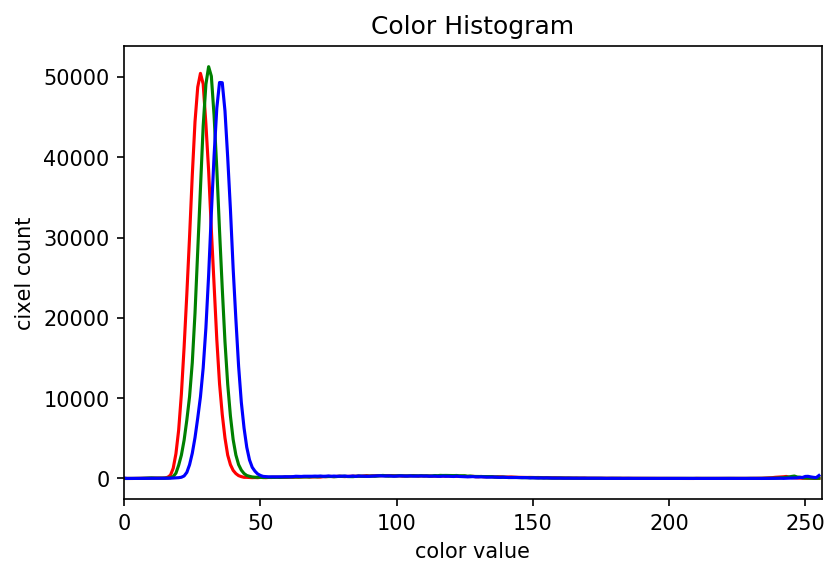
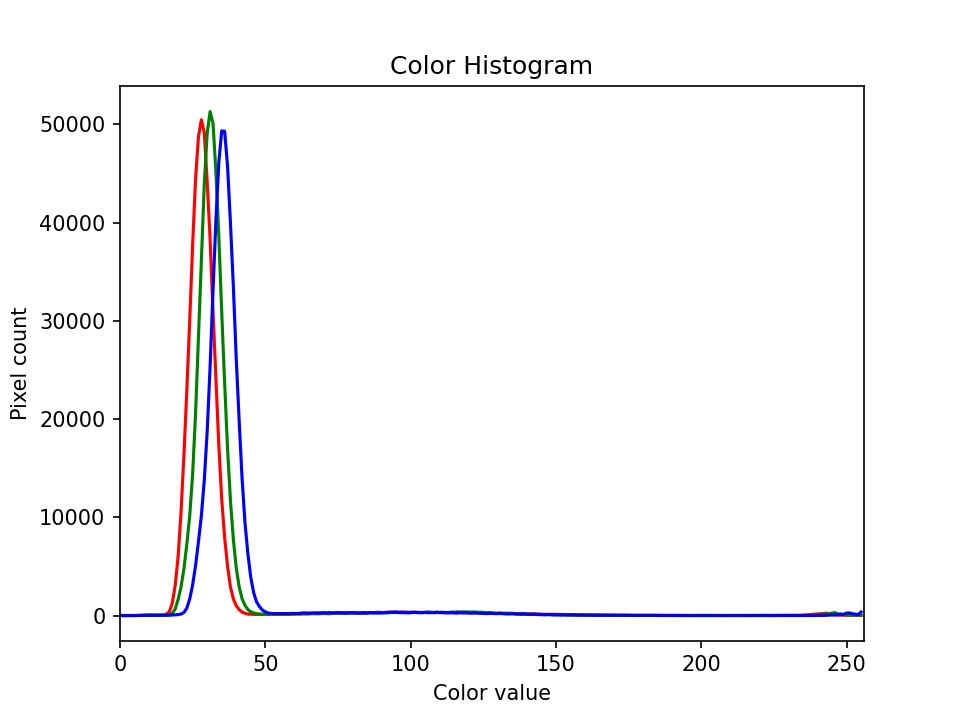
move scripts into chunks inside episode

Changed region(s): [[0.0, 0.0312, 0.9905, 0.9983]]

diff --git a/episodes/05-creating-histograms.md b/episodes/05-creating-histograms.md
@@ -37,30 +37,30 @@ as a preparatory step before performing
 ## Grayscale Histograms
 
 We will start with grayscale images and histograms first, and then move on to
-color images. Here is a Python script to load an image in grayscale instead
-of full color, and then create and display the corresponding histogram. The first
-few lines are:
+color images. We will use this image of a plant seedling as an example:
+![Plant seedling](../fig/04-plant-seedling.jpg)
+
+Here we load the image in grayscale instead
+of full color, and then create and display the corresponding histogram:
 
 ~~~
-"""
- * Generate a grayscale histogram for an image.
- *
- * Usage: python GrayscaleHistogram.py <fiilename>
-"""
-import sys
 import numpy as np
 import skimage.color
 import skimage.io
-from matplotlib import pyplot as plt
+import matplotlib.pyplot as plt
+%matplotlib widget
 
-# read image, based on command line filename argument;
-# read the image as grayscale from the outset
-image = skimage.io.imread(fname=sys.argv[1], as_gray=True)
+# read the image of a plant seedling as grayscale from the outset
+image = skimage.io.imread(fname='04-plant-seedling.jpg', as_gray=True)
 
 # display the image
-skimage.io.imshow(image)
+fig, ax = plt.subplots()
+plt.imshow(image, cmap='gray')
+plt.show()
 ~~~
 {: .language-python}
+
+![Plant seedling](../fig/04-plant-seedling-grayscale.png)
 
 In the program, we have a new import from `matplotlib`, to gain access to the
 tools we will use to draw the histogram. The statement
@@ -69,10 +69,9 @@ tools we will use to draw the histogram. The statement
 
 loads up the `pyplot` library, and gives it a shorter name, `plt`.
 
-Next, we use the `skimage.io.imread()` function to load our image. We use the first
-command line parameter as the filename of the image, as we did in the
-[Skimage Images]({{ page.root }}/03-skimage-images) lesson. The second parameter
-to `skimage.io.imread()` instructs the function to transform the image into
+Next, we use the `skimage.io.imread()` function to load our image. The first parameter 
+to `skimage.io.imread()` is the filename of the image. The second parameter 
+`as_gray` instructs the function to transform the image into
 grayscale with a value range from 0 to 1 while loading the image.
 We will keep working with images in the value range 0 to 1 in this lesson.
 Remember that we can transform an image back to the range 0 to 255 with
@@ -87,7 +86,7 @@ histogram, bin_edges = np.histogram(image, bins=256, range=(0, 1))
 ~~~
 {: .language-python}
 
-The parameter `bins` determines the histogram size, or the number of "bins" to use for
+The parameter `bins` determines the number of "bins" to use for
 the histogram. We pass in `256` because we want to see the pixel count for
 each of the 256 possible values in the grayscale image.
 
@@ -96,10 +95,10 @@ have. Here, we pass 0 and 1, which is the value range of our input image after t
 to grayscale.
 
 The first output of the `np.histogram` function is a one-dimensional NumPy array,
-with 256 rows and one column, representing the number of pixels with the color
+with 256 rows and one column, representing the number of pixels with the intensity
 value corresponding to the index. I.e., the first number in the array is the
-number of pixels found with color value 0, and the final
-number in the array is the number of pixels found with color value 255.
+number of pixels found with intensity value 0, and the final
+number in the array is the number of pixels found with intensity value 255.
 The second output of `np.histogram` is an array with the bin edges and one column and 257 rows (one more than the histogram itself).
 There are no gaps between the bins, which means that the end of the first bin, is the start of the second and so on.
 For the last bin, the array also has to contain the stop, so it has one more element, than the histogram.
@@ -112,7 +111,7 @@ of the plotting facilities of the `matplotlib` library.
 plt.figure()
 plt.title("Grayscale Histogram")
 plt.xlabel("grayscale value")
-plt.ylabel("pixels")
+plt.ylabel("pixel count")
 plt.xlim([0.0, 1.0])  # <- named arguments do not work here
 
 plt.plot(bin_edges[0:-1], histogram)  # <- or here
@@ -139,6 +138,9 @@ x-axis with the `plt.xlim([0.0, 1.0])` function call.
 Finally, we create the histogram plot itself with `plt.plot(bin_edges[0:-1], histogram)`.
 We use the **left** bin edges as x-positions for the histogram values by indexing the `bin_edges` array to ignore the last value (the **right** edge of the last bin).
 Then we make it appear with `plt.show()`. When we run the program on this image of a plant seedling,
+it produces this histogram:
+
+![Plant seedling histogram](../fig/04-plant-seedling-gs-histogram.png)
 
 > ## Histograms in matplotlib
 >
@@ -153,12 +155,6 @@ Then we make it appear with `plt.show()`. When we run the program on this image 
 >
 {: .callout}
 
-![Plant seedling](../fig/04-plant-seedling.jpg)
-
-the program produces this histogram:
-
-![Plant seedling histogram](../fig/04-plant-seedling-gs-histogram.png)
-
 > ## Using a mask for a histogram (15 min)
 >
 > Looking at the histogram above, you will notice that there is a large number
@@ -167,48 +163,39 @@ the program produces this histogram:
 > mostly black background. What if we want to focus more closely on the leaf of
 > the seedling? That is where a mask enters the picture!
 >
-> Navigate to the **Desktop/workshops/image-processing/05-creating-histograms**
-> directory, and edit the **GrayscaleMaskHistogram.py** program. The skeleton
-> program is a copy of the mask program above, with comments showing where to
-> make changes.
->
-> First, use a tool like ImageJ to determine the *(x, y)* coordinates of a
-> bounding box around the leaf of the seedling. Then, using techniques from the
+> First, hover over the plant seedling image with your mouse to determine the 
+> *(x, y)* coordinates of a bounding box around the leaf of the seedling. 
+> Then, using techniques from the
 > [Drawing and Bitwise Operations]({{ page.root }}/04-drawing/)
 > episode, create a mask with a white rectangle covering that bounding box.
 >
 > After you have created the mask, apply it to the input image before passing
 > it to the `np.histogram` function.
-> Then, run the **GrayscaleMaskHistogram.py** program and observe the resulting
-> histogram.
 >
 > > ## Solution
 > > ~~~
-> > """
-> >  * Generate a grayscale histogram for an image.
-> >  *
-> >  * Usage: python GrayscaleMaskHistogram.py <filename>
-> > """
-> > import sys
-> > import numpy as np
 > > import skimage.draw
-> > import skimage.io
-> > from matplotlib import pyplot as plt
-> >
-> > # read image, based on command line filename argument;
+> > 
 > > # read the image as grayscale from the outset
-> > img = skimage.io.imread(fname=sys.argv[1], as_gray=True)
+> > image = skimage.io.imread('04-plant-seedling.jpg', as_gray=True)
 > >
 > > # display the image
-> > skimage.io.imshow(img)
+> > fig, ax = plt.subplots()
+> > plt.imshow(image, cmap='gray')
+> > plt.show()
 > >
 > > # create mask here, using np.zeros() and skimage.draw.rectangle()
-> > mask = np.zeros(shape=img.shape, dtype="bool")
+> > mask = np.zeros(shape=image.shape, dtype="bool")
 > > rr, cc = skimage.draw.rectangle(start=(199, 410), end=(384, 485))
 > > mask[rr, cc] = True
 > >
+> > # display the mask
+> > fig, ax = plt.subplots()
+> > plt.imshow(mask, cmap='gray')
+> > plt.show()
+> >
 > > # mask the image and create the new histogram
-> > histogram, bin_edges = np.histogram(img[mask], bins=256, range=(0.0, 1.0))
+> > histogram, bin_edges = np.histogram(image[mask], bins=256, range=(0.0, 1.0))
 > >
 > > # configure and draw the histogram figure
 > > plt.figure()
@@ -238,27 +225,17 @@ histograms. We have seen color histograms before, in the
 color histograms starts in a familiar way:
 
 ~~~
-"""
- * Python program to create a color histogram.
- *
- * Usage: python ColorHistogram.py <filename>
-"""
-import sys
-import skimage.io
-from matplotlib import pyplot as plt
-
-# read original image, in full color, based on command
-# line argument
-image = skimage.io.imread(fname=sys.argv[1])
+# read original image, in full color
+image = skimage.io.imread('04-plant-seedling.jpg')
 
 # display the image
-skimage.io.imshow(image)
+fig, ax = plt.subplots()
+plt.imshow(image)
+plt.show()
 ~~~
 {: .language-python}
 
-We import the needed libraries, read
-the image based on the command-line parameter (in color this time), and then
-display the image.
+We read the original image, now in full color, and display it.
 
 Next, we create the histogram, by calling the `np.histogram` function three
 times, once for each of the channels. We obtain the individual channels, by
@@ -272,6 +249,7 @@ channel_ids = (0, 1, 2)
 
 # create the histogram plot, with three lines, one for
 # each color
+plt.figure()
 plt.xlim([0, 256])
 for channel_id, c in zip(channel_ids, colors):
     histogram, bin_edges = np.histogram(
@@ -279,8 +257,9 @@ for channel_id, c in zip(channel_ids, colors):
     )
     plt.plot(bin_edges[0:-1], histogram, color=c)
 
+plt.title("Color Histogram")
 plt.xlabel("Color value")
-plt.ylabel("Pixels")
+plt.ylabel("Pixel count")
 
 plt.show()
 ~~~
@@ -371,22 +350,28 @@ Finally we label our axes and display the histogram, shown here:
 > well plate, where various chemical sensors have been applied to water and
 > various concentrations of hydrochloric acid and sodium hydroxide:
 >
+> ~~~
+> # read the image
+> image = skimage.io.imread('09-well-plate.jpg')
+>
+> # display the image
+> fig, ax = plt.subplots()
+> plt.imshow(image)
+> plt.show()
+> ~~~
+> {: .language-python}
 > ![Well plate image](../fig/09-well-plate.jpg)
 >
 > Suppose we are interested in the color histogram of one of the sensors in the
 > well plate image, specifically, the seventh well from the left in the topmost
 > row, which shows Erythrosin B reacting with water.
 >
-> Use ImageJ to find the center of that well and the radius (in pixels) of the
-> well. Then, navigate to the
-> **Desktop/workshops/image-processing/05-creating-histograms** directory, and
-> edit the **ColorHistogramMask.py** program.
->
-> Guided by the comments in the **ColorHistogramMask.py** program, create a
+> Hover over the image with your mouse to find the center of that well 
+> and the radius (in pixels) of the well.  Then create a
 > circular mask to select only the desired well. Then, use that mask to apply
-> the color histogram operation to that well. When you execute the program on
-> the **plate-01.tif** image, your program should display `maskedImg`, which
-> will look like this:
+> the color histogram operation to that well. 
+>
+> Your masked image should look like this:
 >
 > ![Masked well plate](../fig/04-masked-well-plate.jpg)
 >
@@ -395,46 +380,23 @@ Finally we label our axes and display the histogram, shown here:
 > ![Well plate histogram](../fig/04-well-plate-histogram.png)
 >
 > > ## Solution
-> >
-> > Here is the modified version of **ColorHistogramMask.py** that produced the
-> > preceding images.
-> >
 > > ~~~
-> > """
-> >  * Python program to create a color histogram on a masked image.
-> >  *
-> >  * Usage: python ColorHistogramMask.py <filename>
-> > """
-> > import sys
-> > import skimage.io
-> > import skimage.draw
-> > import numpy as np
-> > from matplotlib import pyplot as plt
-> >
-> > # read original image, in full color, based on command
-> > # line argument
-> > image = skimage.io.imread(fname=sys.argv[1])
-> >
-> > # display the original image
-> > skimage.io.imshow(image)
-> >
 > > # create a circular mask to select the 7th well in the first row
-> > # WRITE YOUR CODE HERE
 > > mask = np.zeros(shape=image.shape[0:2], dtype="bool")
-> > circle = skimage.draw.disk((240, 1053), radius=49, shape=image.shape[:2])
+> > circle = skimage.draw.disk((240, 1053), radius=49, shape=image.shape[0:2])
 > > mask[circle] = 1
 > >
 > > # just for display:
 > > # make a copy of the image, call it masked_image, and
 > > # use np.logical_not() and indexing to apply the mask to it
-> > # WRITE YOUR CODE HERE
 > > masked_img = image[:]
 > > masked_img[np.logical_not(mask)] = 0
 > >
-> > # create a new window and display maskedImg, to verify the
+> > # create a new figure and display masked_img, to verify the
 > > # validity of your mask
-> > # WRITE YOUR CODE HERE
-> > skimage.io.imshow(masked_img)
+> > fig, ax = plt.subplots()
+> > plt.imshow(masked_img)
+> > plt.show()
 > >
 > > # list to select colors of each channel line
 > > colors = ("red", "green", "blue")
@@ -442,11 +404,11 @@ Finally we label our axes and display the histogram, shown here:
 > >
 > > # create the histogram plot, with three lines, one for
 > > # each color
+> > plt.figure()
 > > plt.xlim([0, 256])
 > > for (channel_id, c) in zip(channel_ids, colors):
-> >     # change this to use your circular mask to apply the histogram
+> >     # use your circular mask to apply the histogram
 > >     # operation to the 7th well of the first row
-> >     # MODIFY CODE HERE
 > >     histogram, bin_edges = np.histogram(
 > >         image[:, :, channel_id][mask], bins=256, range=(0, 256)
 > >     )
@@ -465,7 +427,7 @@ Finally we label our axes and display the histogram, shown here:
 > ## Histograms for the morphometrics challenge (10 min - optional, not included in timing)
 >
 > Using the grayscale and color histogram programs we developed in this episode,
-> create histograms for the bacteria colonies in the
-> **Desktop/workshops/image-processing/10-challenges** directory. Save the
-> histograms for later use.
+> create histograms for the bacteria colonies in the following images: `00-colonies01.jpg`,
+> `00-colonies02.jpg` and `00-colonies03.jpg`. 
+> Save the histograms for later use.
 {: .challenge}
